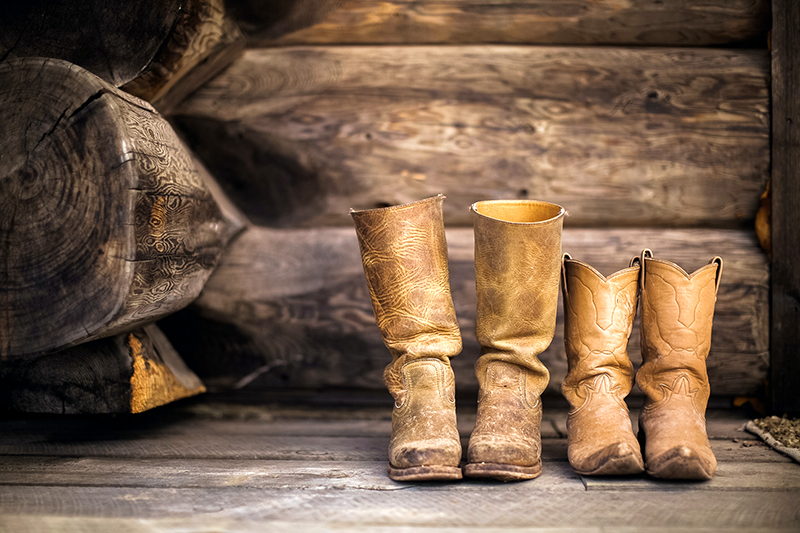
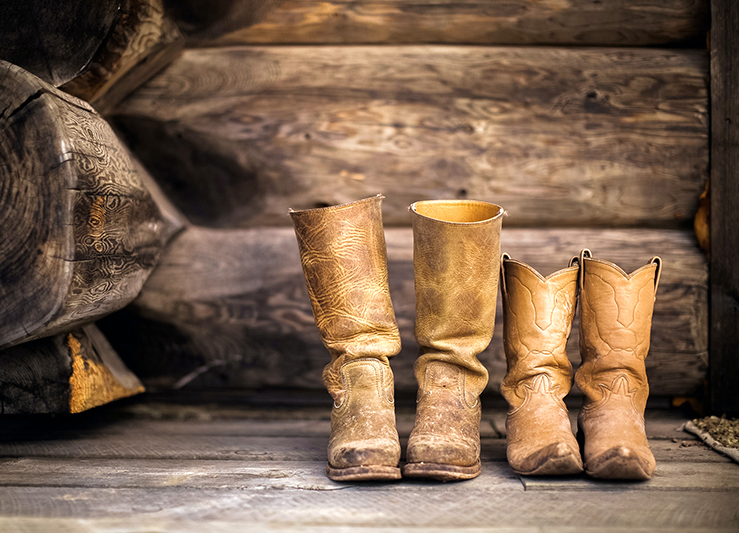
写真サイズを調整
写真サイズを調整しました。

diff --git a/css/style.css b/css/style.css
@@ -10,7 +10,7 @@ body {
   width: 100%;
   max-width: 1440px;
   margin: 0 auto;
-  position: relative;
+/*  position: relative;*/
 }
 
 /* lettar-spacing
@@ -140,6 +140,8 @@ section {
 
 .lineUp img {
   width: 100%;
+  height: auto;
+/*  object-fit: cover;*/
   vertical-align: bottom;
   box-shadow: 3px 5px 22px rgba(0,0,0,0.4);
 }
@@ -166,6 +168,7 @@ section {
   vertical-align: bottom;
   box-shadow: 3px 5px 22px rgba(0,0,0,0.4);
 }
+
 .store-text {
   text-align: justify;
   letter-spacing: 0.5px;
